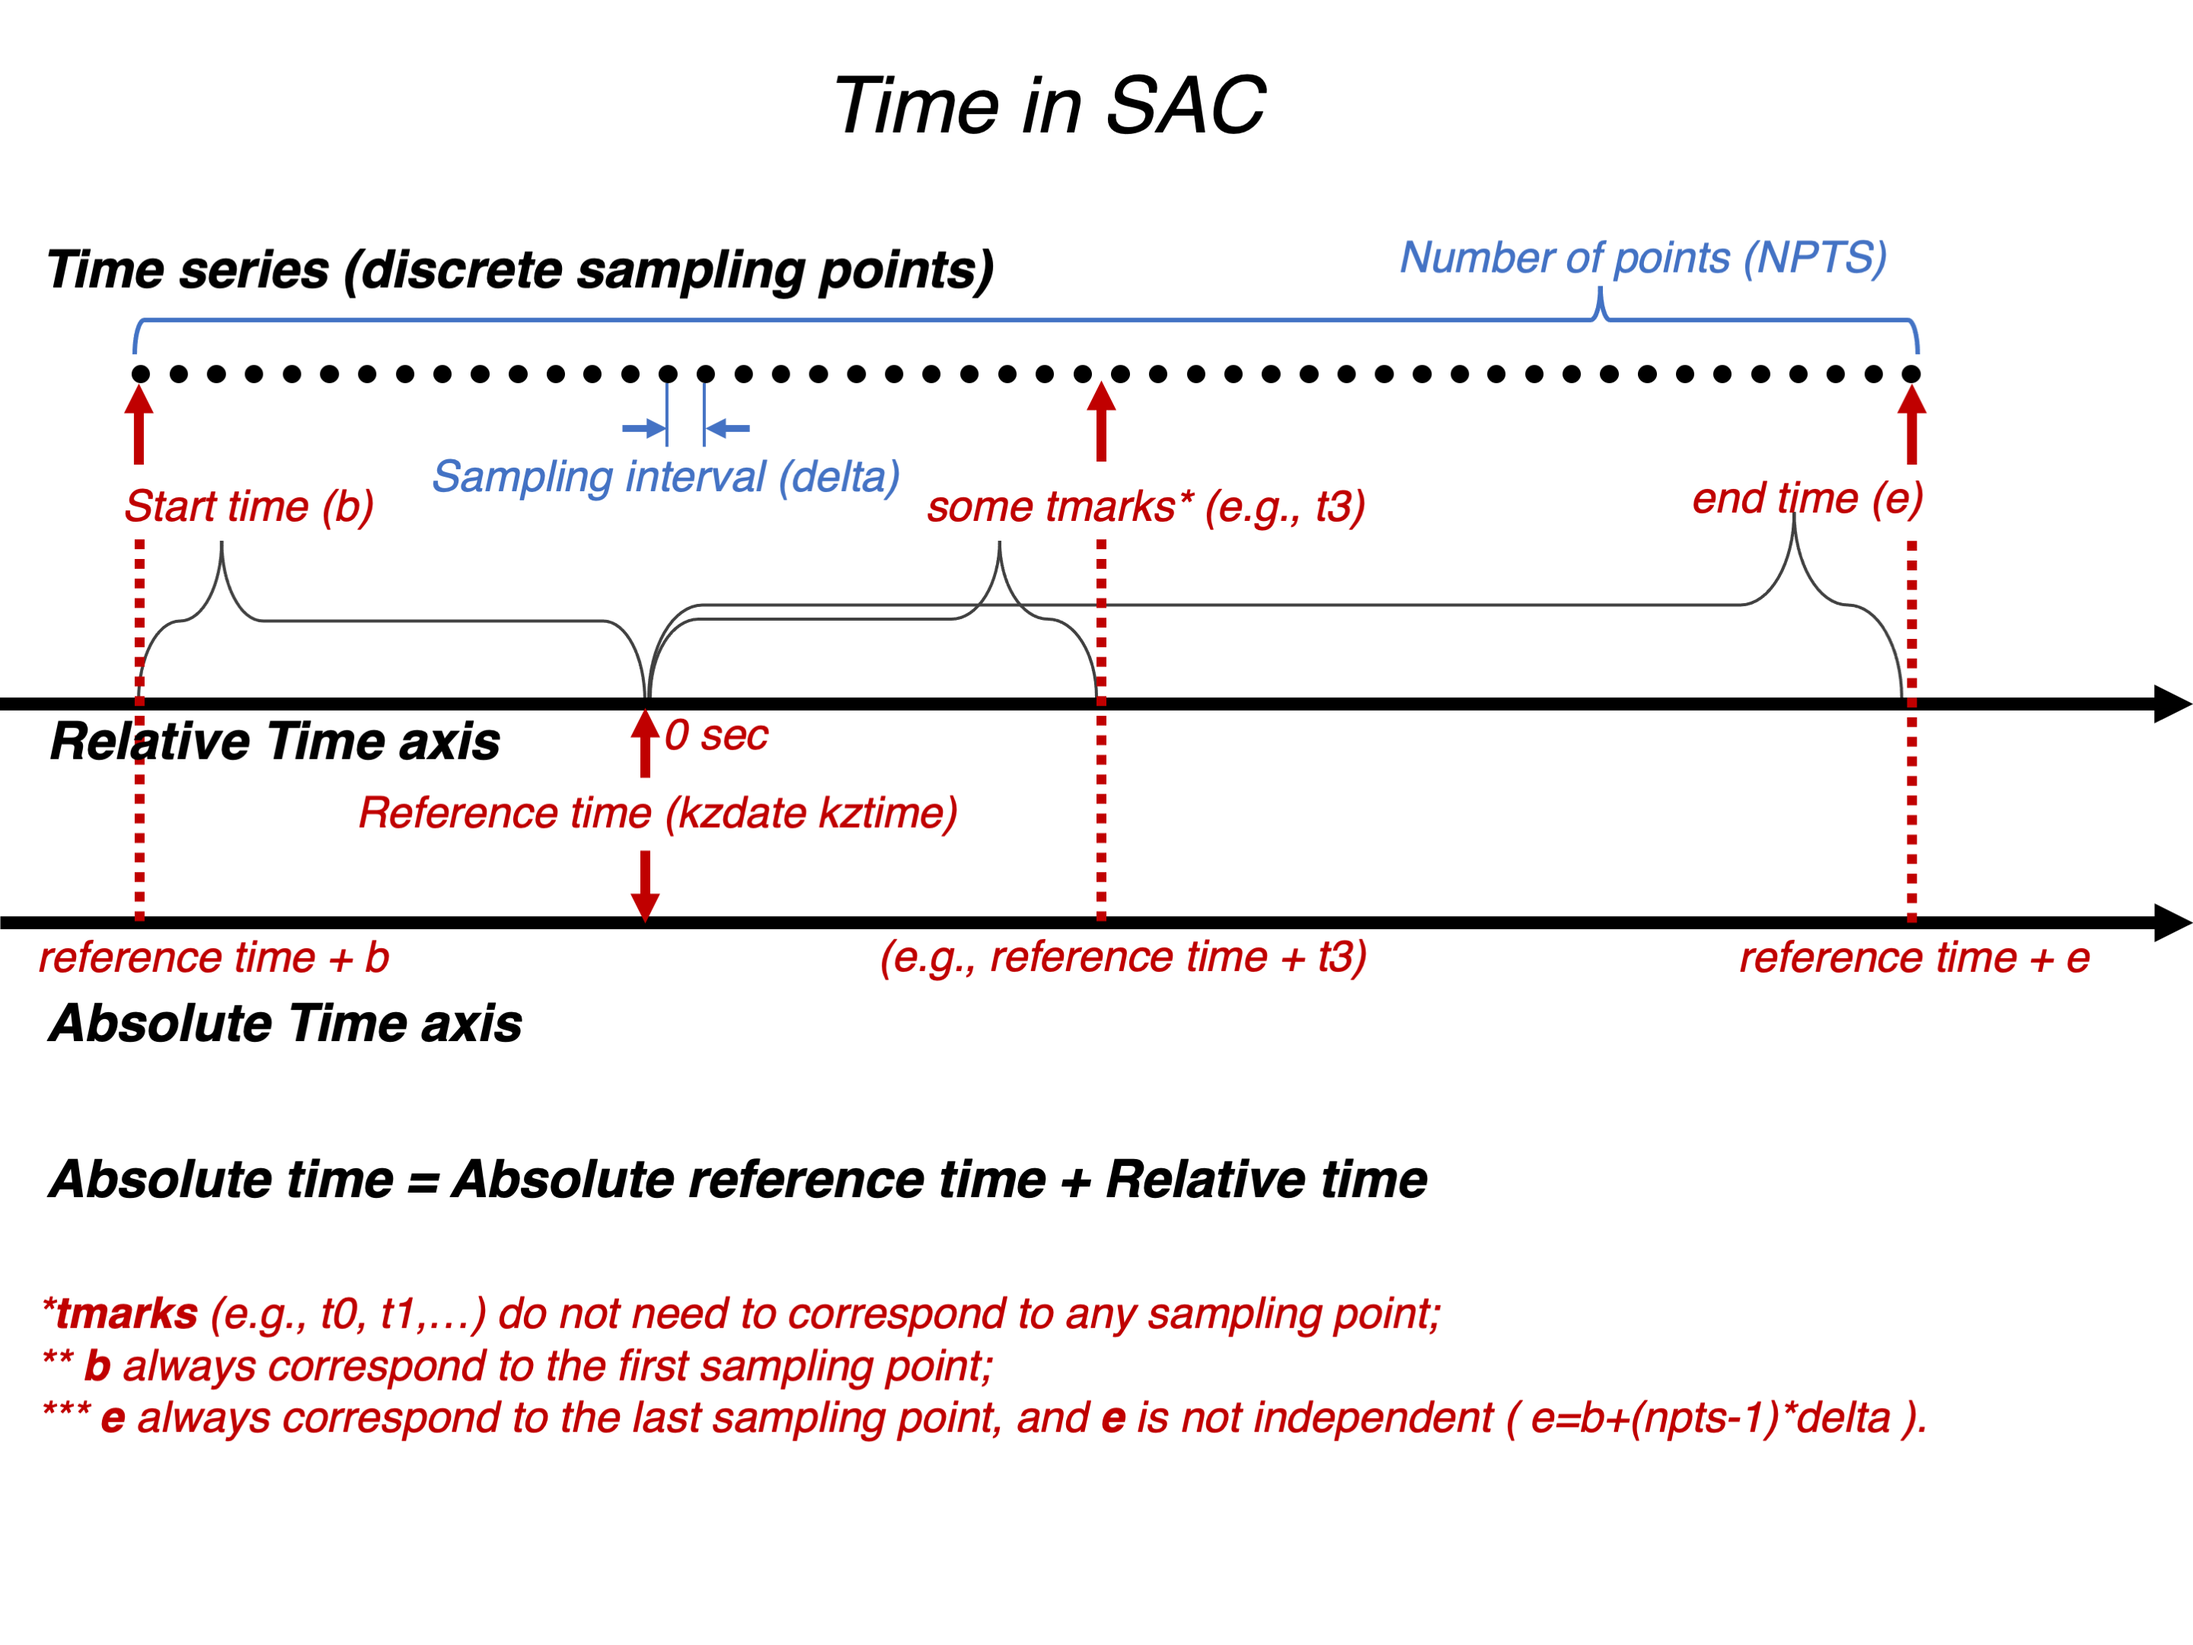
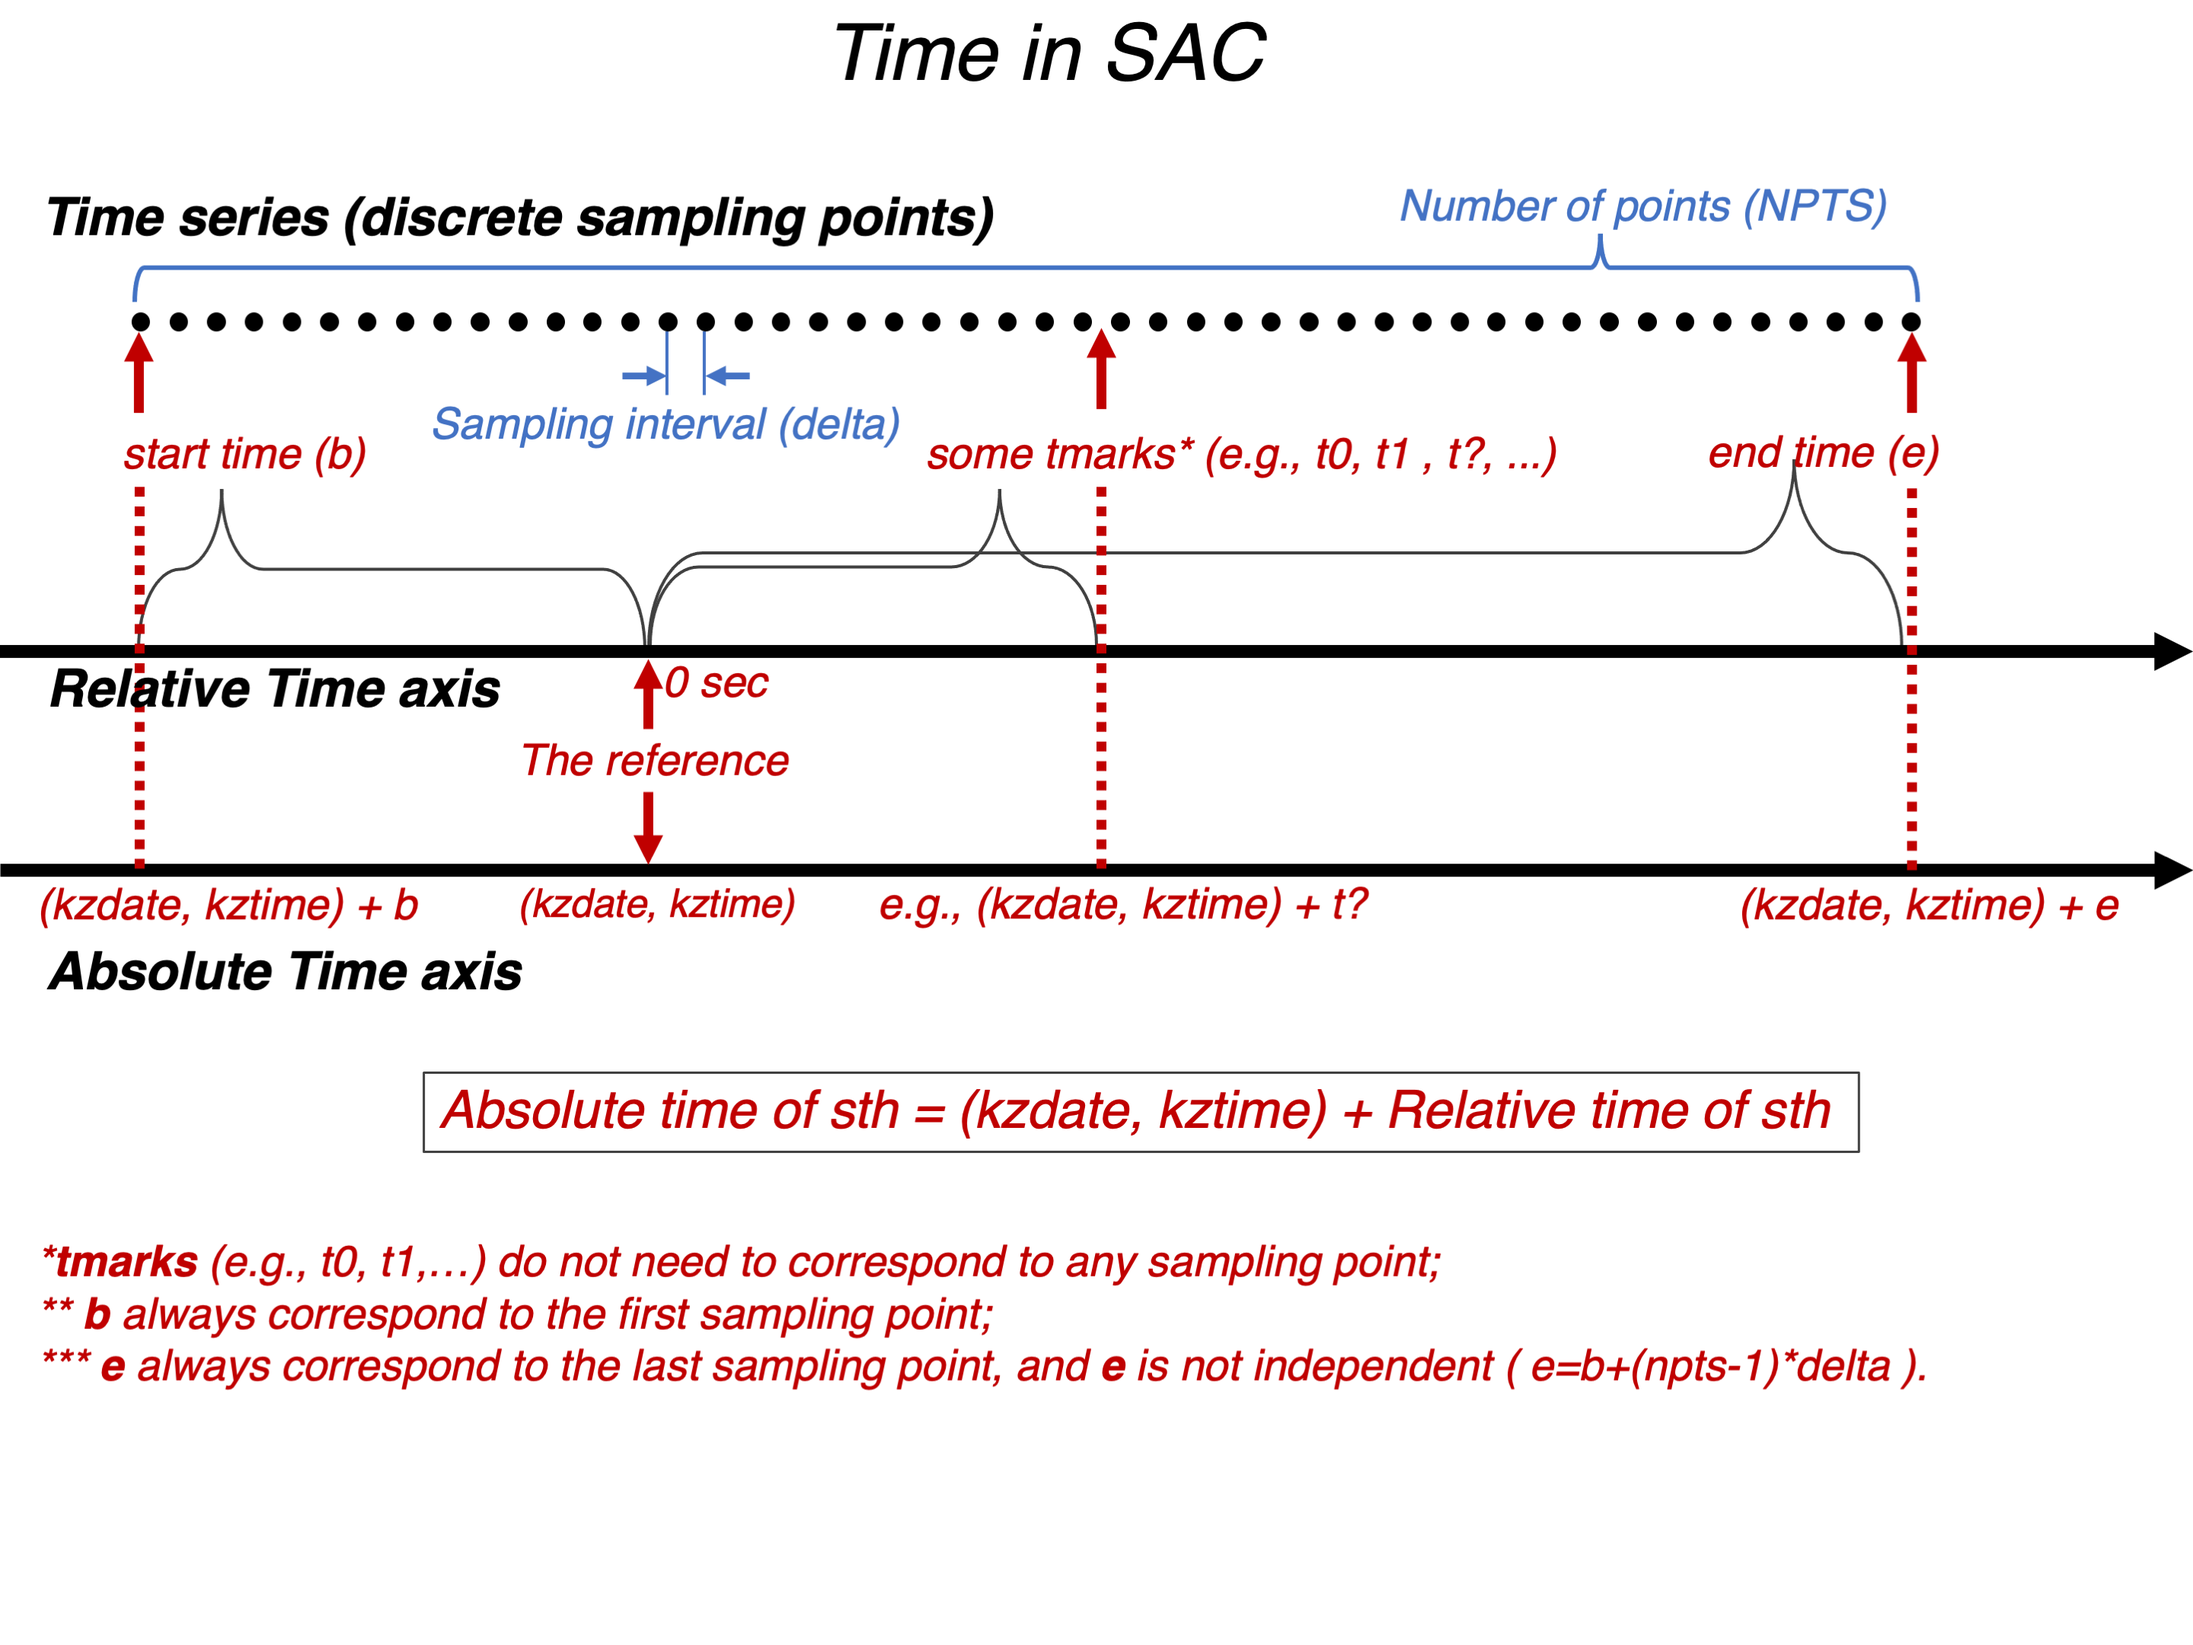
Add sac time explanations

Changed region(s): [[0.0, 0.0931, 1.0, 0.8685], [0.375, 0.0, 0.5938, 0.0931]]

diff --git a/Lab1/README.md b/Lab1/README.md
@@ -33,7 +33,7 @@ If the solution looks good, plot a closer view of the region around the epicentr
 
 *Epicentre estimate from map: 		Longitude: ___________________	 Latitude: ____________________*
 
-**Hint: Conversion between relative time and absolute time**
+## Hint: Conversion between relative time and absolute time
 
 ![](sac_time.png)
 
